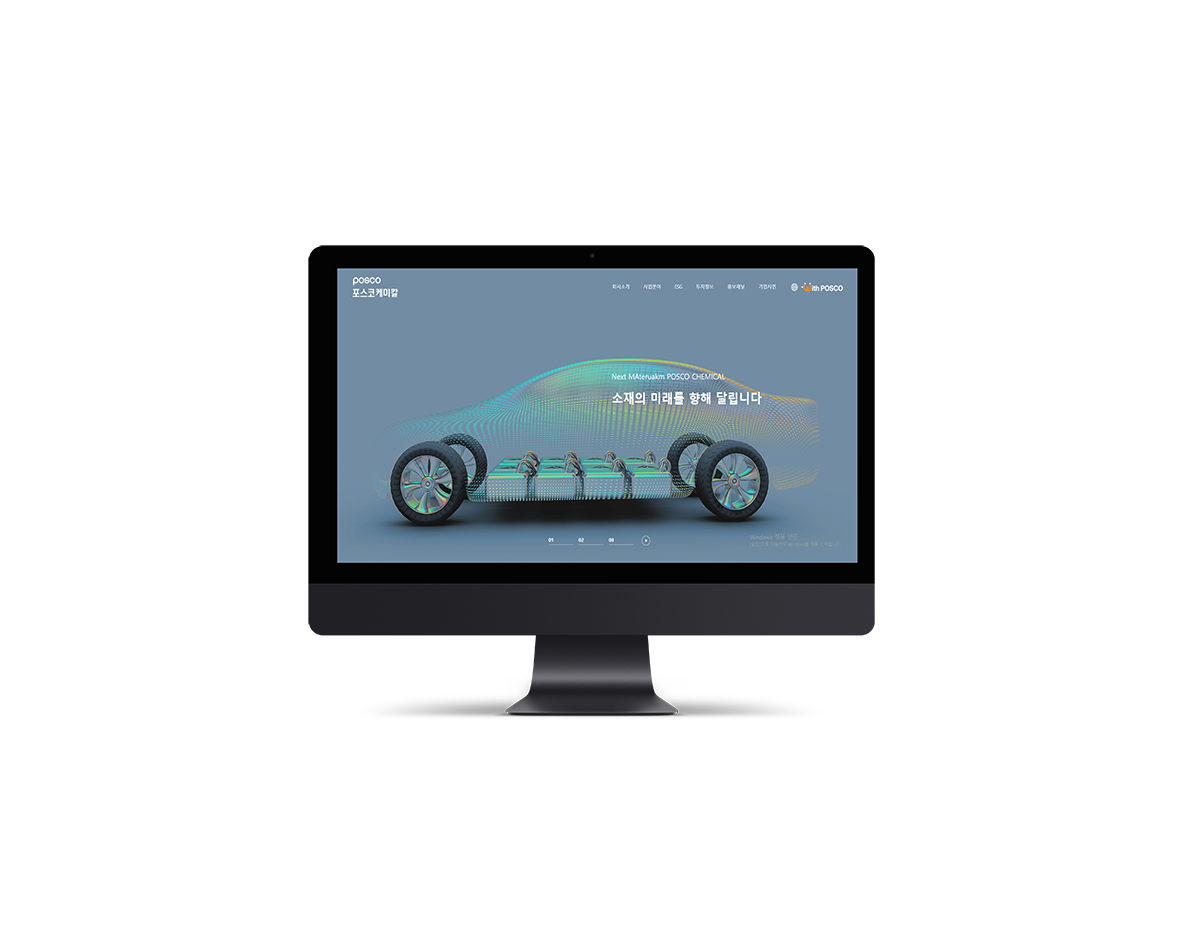
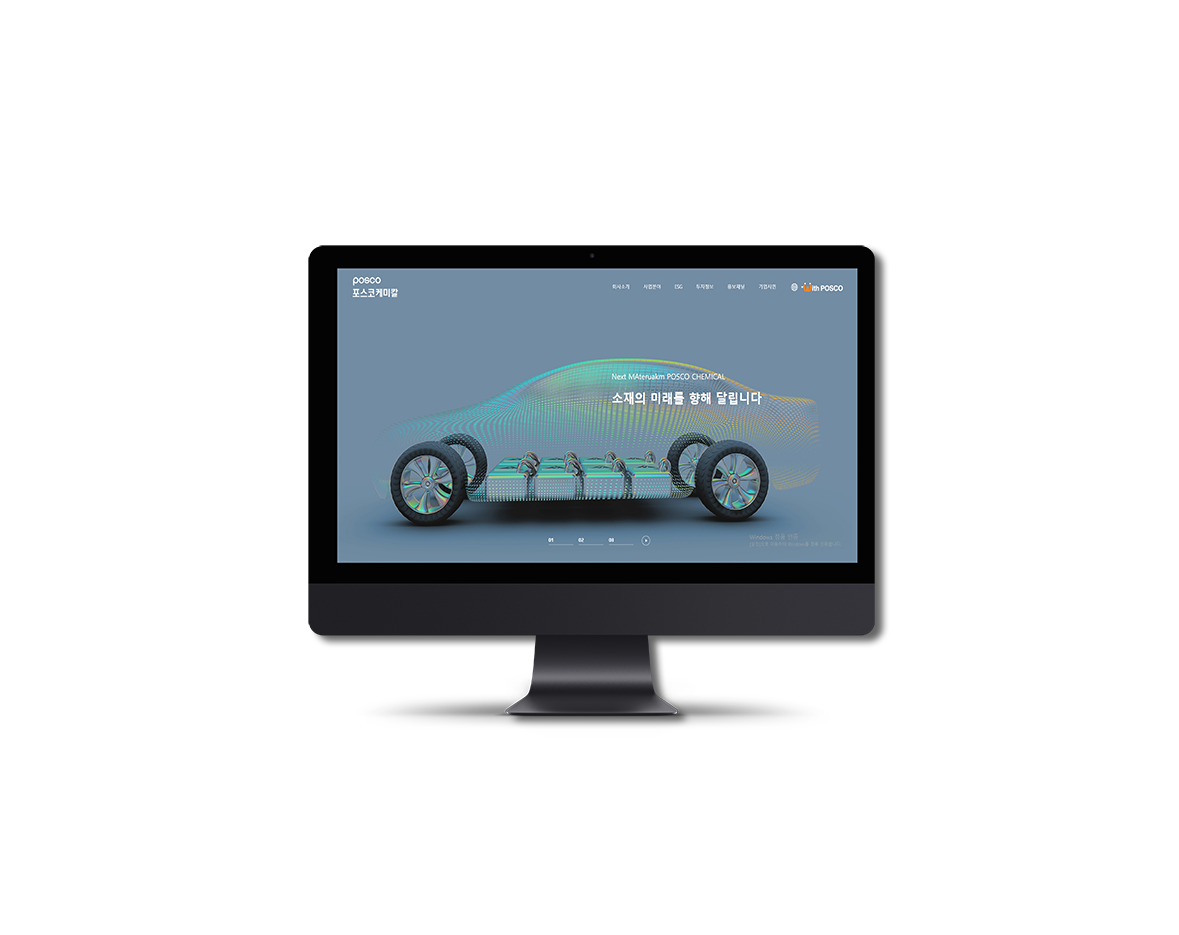
2021-11-30 작업

Changed region(s): [[0.3969, 0.2791, 0.7634, 0.7754], [0.2748, 0.6513, 0.458, 0.7134]]

diff --git a/personal-web/style.css b/personal-web/style.css
@@ -338,7 +338,8 @@ a{
     font-family: 'Noto Serif Display', serif;
     position: absolute;    
     left: 165px;
-    background: linear-gradient(to bottom, #4CA1AF, #2C3E50 );
+    top: -5px;
+    background: linear-gradient(to bottom, #4CA1AF 70%, #2C3E50 );
     color: transparent;
     -webkit-background-clip: text;
     text-shadow:5px 5px 11px  rgba(0,0,0, .7);
@@ -349,7 +350,7 @@ a{
     font-family: 'Roboto', sans-serif;   
     position: absolute;
     left: 541px;
-    background: linear-gradient(to bottom, #4CA1AF, #2C3E50 );
+    background: linear-gradient(to bottom, #4CA1AF 70%, #2C3E50 );
     color: transparent;
     -webkit-background-clip: text;
     text-shadow:5px 5px 11px  rgba(0,0,0, .7);
@@ -360,7 +361,8 @@ a{
     font-family: 'Noto Sans KR', sans-serif; 
     position: absolute;  
     left: 953px;
-    background: linear-gradient(to bottom, #4CA1AF, #2C3E50 );
+    top: -7px;
+    background: linear-gradient(to bottom, #4CA1AF 70%, #2C3E50 );
     color: transparent;
     -webkit-background-clip: text;
     text-shadow: 5px 5px 11px  rgba(0,0,0, .7);
@@ -1108,18 +1110,20 @@ a{
     position: absolute;
     top: 443px;
     font-size: 55px;
-    background: linear-gradient(to bottom, #4CA1AF, #2C3E50 );
+    background: linear-gradient(to bottom, #4CA1AF 70%, #2C3E50 );
     color: transparent;
     -webkit-background-clip: text;
     text-shadow: 5px 5px 11px  rgba(0,0,0, .7);
 }
+
+/* personal */
 
 .portfolio .inner .personal{
     position: relative;
     left: 580px;
     width: 1920px;
     height: 1080px;
-    background-color: #000;
+    background-color: #222;
 }
 
 .portfolio .inner .personal .bg{
@@ -1134,7 +1138,7 @@ a{
 }
 
 .portfolio .inner .personal .mockup{
-    background-image: url(./img/Mockup1.png);
+    background-image: url(./img/Mockup.png);
     background-repeat: no-repeat;
     background-position: center;
     width: 100%;
@@ -1142,6 +1146,9 @@ a{
     position: absolute;
     right: 587px;
 }
+
+/* imitation */
+
 .portfolio .inner .imitation{
     position: relative;
     left: 580px;
@@ -1166,6 +1173,9 @@ a{
     position: absolute;
     right: 587px;
 }
+
+/* renewal */
+
 .portfolio .inner .renewal{
     position: relative;
     left: 580px;
@@ -1189,4 +1199,44 @@ a{
     height: 100%;
     position: absolute;
     right: 587px;
+}
+
+/* infographic */
+
+.portfolio .inner .infographic{
+    position: relative;
+    left: 580px;
+    width: 1920px;
+    height: 1080px;
+}
+.portfolio .inner .infographic .grid{
+    background-image: url(./img/메타버스-그리드.png);
+    background-repeat: no-repeat;
+    width: 100%;
+    height: 100%;
+    position: absolute;
+    opacity: 15%;
+    background-position-x: -491px;
+    background-position-y: 482px;
+}
+.portfolio .inner .infographic .bg{
+    background-image: url(./img/메타버스-배경.png);
+    background-repeat: no-repeat;
+    width: 100%;
+    height: 1239px;
+    position: absolute;
+    opacity: 80%;
+    background-position-x: 555px;
+    background-position-y: -187px;
+}
+.portfolio .inner .infographic .mockup{
+    background-image: url(./img/메타버스-인포그래픽.png);
+    background-repeat: no-repeat;
+    background-position: center;
+    width: 890px;
+    height: 930px;
+    position: absolute;
+    top: 75px;
+    right: 1069px;
+    z-index: 3;
 }

diff --git a/personal-web/html/portfolio4.html b/personal-web/html/portfolio4.html
@@ -76,6 +76,7 @@
                 <div class="main">Infographic</div>
             </div>
             <div class="infographic">
+                <div class="grid"></div>
                 <div class="bg"></div>
                 <div class="mockup"></div>
             </div>
